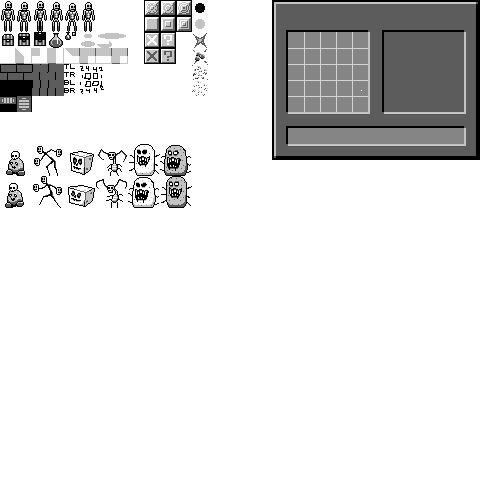
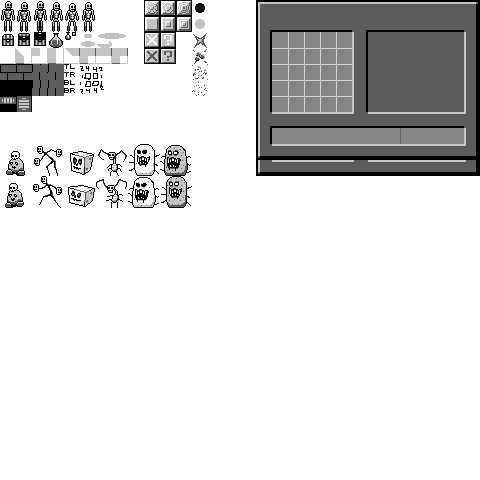
item panel rendering half done

Changed region(s): [[0.5312, 0.0, 1.0, 0.375], [0.7188, 0.0625, 0.8125, 0.25]]

diff --git a/src/items/itemrendering.py b/src/items/itemrendering.py
@@ -1,10 +1,13 @@
 from src.renderengine.img import ImageBundle 
+import src.items.item as items
 import src.game.spriteref as spriteref
 
 
+
 class TextImage:
-    def __init__(self, x, y, text, color=(1, 1, 1), scale=2):
+    def __init__(self, x, y, text, color=(1, 1, 1), scale=2, center_w=None):
         self.x = x
+        self.center_w = center_w
         self.y = y
         self.text = text.lower()
         self.color = color
@@ -14,24 +17,45 @@ class TextImage:
         
         self._build_images()
         
+    def _calc_width(self):
+        max_line_w = 0
+        cur_line_w = 0
+        char_w = (spriteref.alphabet["a"].width() + self.kerning) * self.scale
+        for c in self.text:
+            if c == "\n":
+                cur_line_w = 0
+            else:
+                cur_line_w += char_w
+                max_line_w = max(max_line_w, cur_line_w)
+        return max_line_w
+        
+    def line_height(self):
+        return (spriteref.alphabet["a"].height() + self.kerning) * self.scale
+        
     def _build_images(self):
-        if len(self._letter_images) < len(self.text):
-            ypos = 0
-            xpos = 0
-            a_sprite = spriteref.alphabet["a"]
-            for i in range(0, len(self.text)):
-                c = self.text[i]
-                if c == " ":
-                    xpos += (self.kerning + a_sprite.width()) * self.scale
-                elif c == "\n":
-                    xpos = 0
-                    ypos += (self.kerning + a_sprite.height()) * self.scale
-                else:
-                    sprite = spriteref.alphabet[c]
-                    img = ImageBundle(sprite, self.x + xpos, self.y + ypos, 
-                            scale=self.scale, color=self.color)
-                    self._letter_images.append(img)  
-                    xpos += (self.kerning + a_sprite.width()) * self.scale
+        ypos = 0
+        
+        x_shift = 0
+        if self.center_w is not None:
+            true_width = self._calc_width()
+            x_shift = self.x + self.center_w // 2 - true_width // 2     
+            
+        xpos = x_shift
+            
+        a_sprite = spriteref.alphabet["a"]
+        for i in range(0, len(self.text)):
+            c = self.text[i]
+            if c == " ":
+                xpos += (self.kerning + a_sprite.width()) * self.scale
+            elif c == "\n":
+                xpos = x_shift
+                ypos += (self.kerning + a_sprite.height()) * self.scale
+            else:
+                sprite = spriteref.alphabet[c]
+                img = ImageBundle(sprite, self.x + xpos, self.y + ypos, 
+                        scale=self.scale, color=self.color)
+                self._letter_images.append(img)  
+                xpos += (self.kerning + a_sprite.width()) * self.scale
                     
     def all_bundles(self):
         for b in self._letter_images:
@@ -46,12 +70,64 @@ class ItemImage:
         self._cube_images = []
 
 class ItemInfoPane:
-    def __item__(self, item):
-        self.item_image = ItemImage(item, 2)
+    def __init__(self, item):
+        self.item = item
         self.x = 0
         self.y = 0
-        self.title_text
-        self.lines_of_text
+        
+        self.top_panel = None
+        self.mid_panels = []
+        self.bot_panel = None
+        self.item_image = None
+        self.title_text = None
+        self.core_texts = []
+        
+        self._build_images()
+        
+        
+    def _build_images(self):
+        sc = 1
+        self.top_panel = ImageBundle(spriteref.item_panel_top, 0, 0, scale=sc)
+        h = self.top_panel.height()
+        for i in range(0, len(self.item.non_core_stats())):
+            img = ImageBundle(spriteref.item_panel_middle, 0, h, scale=sc)
+            h += img.height()
+            self.mid_panels.append(img)
+        
+        if len(self.mid_panels) > 0:
+            bot_sprite = spriteref.item_panel_bottom_0
+        else:
+            bot_sprite = spriteref.item_panel_bottom_1
+        self.bot_panel = ImageBundle(bot_sprite, 0, h, scale=sc)
+        
+        self.title_text = TextImage(16*sc, 12*sc, self.item.name, scale=2*sc)
+        
+        h = 38*sc
+        lvl_txt = TextImage((1 + 112)*sc, h, self.item.level_string(), scale=2*sc)
+        self.core_texts.append(lvl_txt)
+        h += lvl_txt.line_height()
+
+        for stat in self.item.core_stats():
+            stat_txt = TextImage(112*sc, h, str(stat), color=stat.color(), scale=2*sc)
+            self.core_texts.append(stat_txt)
+            h += stat_txt.line_height()     
+                   
+                    
+    def all_bundles(self):
+        yield self.top_panel
+        for bun in self.mid_panels:
+            yield bun
+        yield self.bot_panel
+        for bun in self.title_text.all_bundles():
+            yield bun
+            
+        for text in self.core_texts:
+            for bun in text.all_bundles():
+                yield bun
+        
+        
+        
+        
     
     
 

diff --git a/src/items/item.py b/src/items/item.py
@@ -1,5 +1,6 @@
 from enum import Enum
 import random
+import collections
 
 
 class StatType(Enum):
@@ -19,11 +20,13 @@ class StatType(Enum):
     LIFE_LEECH = "LIFE_LEECH",
     MAX_HEALTH = "MAX_HEALTH",
     POTION_HEALING = "POTION_HEALING",
-    POTION_COOLDOWN = "POTION_COOLDOWN"
+    POTION_COOLDOWN = "POTION_COOLDOWN",
 
     HOLE_BONUS = "HOLE_BONUS"
+    
+CORE_STATS = [StatType.ATT, StatType.DEF, StatType.VIT]  
  
-DESCRIPTIONS = {
+STAT_DESCRIPTIONS = {
     StatType.ATT:"+{} ATT",
     StatType.DEF:"+{} DEF",
     StatType.VIT:"+{} VIT",
@@ -43,6 +46,13 @@ DESCRIPTIONS = {
     StatType.POTION_COOLDOWN:"-X% Potion Cooldowns"
 }    
 
+STAT_COLORS = collections.defaultdict(lambda: (1, 1, 1))
+STAT_COLORS.update({
+        StatType.ATT: (1, 0.65, 0.65),
+        StatType.DEF: (0.65, 0.65, 1),
+        StatType.VIT: (0.65, 1, 0.65),
+})
+
 
 class ItemStat:
     """Stat that is attached to an item"""
@@ -51,10 +61,13 @@ class ItemStat:
         self.value = value
 
     def __repr__(self):
-        if self.stat_type in DESCRIPTIONS:
-            return DESCRIPTIONS[self.stat_type].format(self.value)
+        if self.stat_type in STAT_DESCRIPTIONS:
+            return STAT_DESCRIPTIONS[self.stat_type].format(self.value)
         else:
             return "{}: {}".format(self.stat_type, self.value)
+            
+    def color(self):
+        return STAT_COLORS[self.stat_type]
 
 
 class Item:
@@ -73,6 +86,9 @@ class Item:
         self.cubes = cubes
         self.color = color
         self.cube_art = {} if cube_art is None else cube_art
+    
+    def level_string(self):
+        return "lvl:{}".format(self.level)
         
     def w(self):
         return max([c[0] for c in self.cubes]) + 1
@@ -80,9 +96,15 @@ class Item:
     def h(self):
         return max([c[1] for c in self.cubes]) + 1
         
+    def core_stats(self):
+        return [s for s in self.stats if s.stat_type in CORE_STATS]
+        
+    def non_core_stats(self):
+        return [s for s in self.stats if s.stat_type not in CORE_STATS]
+        
     def __str__(self):
         res = "[{}]".format(self.name)
-        res += "\n  " + "lvl: " + str(self.level)
+        res += "\n  " + self.level_string()
         for stat in self.stats:
             res += "\n  " + str(stat)
         res += "\n"
@@ -143,8 +165,8 @@ class ItemFactory:
         return tuple(res)
         
     def gen_item():
-        name = "Cubey Cubeboy"
-        stats = [ItemStat(StatType.ATT, 14), ItemStat(StatType.POTION_HEALING, 32),
+        name = "Cube of Hate"
+        stats = [ItemStat(StatType.ATT, 14), ItemStat(StatType.DEF, 32), ItemStat(StatType.VIT, 3), ItemStat(StatType.POTION_HEALING, 32),
                 ItemStat(StatType.MAX_HEALTH, 23)]
         cubes = ItemFactory.gen_cubes(6)
         color = [1, random.random(), random.random()]

diff --git a/cubelike.py b/cubelike.py
@@ -8,6 +8,8 @@ from src.world.worldstate import World
 from src.world.entities import Player, Enemy, ChestEntity
 import src.renderengine.img as img
 from src.renderengine.engine import RenderEngine
+
+from src.items.item import ItemFactory
 from src.items.itemrendering import TextImage, ItemImage, ItemInfoPane
 
 print("launching Cubelike...")
@@ -95,12 +97,14 @@ def run():
     height = img_surface.get_height()
     render_eng.set_texture(texture_data, width, height)
         
-    world = build_me_a_world(15, 15, render_eng, gs)
+    world = build_me_a_world(1, 1, render_eng, gs)
     
-    text_img = TextImage(15, 15, "also i still wanna see \nthe incredibles\nso hmu", color=(0.5, 0.8, 1))
-    for bun in text_img.all_bundles():
-        render_eng.update(bun, layer_id=gs.UI_0_LAYER)
-    
+    item = ItemFactory.gen_item()
+    print(item)
+    item_panel = ItemInfoPane(item)
+    for b in item_panel.all_bundles():
+        render_eng.update(b, layer_id=gs.UI_0_LAYER)
+        
     clock = pygame.time.Clock()    
     
     running = True

diff --git a/src/game/spriteref.py b/src/game/spriteref.py
@@ -46,12 +46,13 @@ medium_shadow = make(80, 40, 16, 8)
 large_shadow = make(96, 32, 32, 8)
 chest_shadow = make(96, 40, 32, 8)
 
-item_panel_top = make(272, 0, 208, 128)
-item_panel_middle = make(272, 128, 208, 16)
-item_panel_botton = make(272, 144, 208, 16)
+item_panel_top = make(256, 0, 224, 128)
+item_panel_middle = make(256, 128, 224, 16)
+item_panel_bottom_0 = make(256, 144, 224, 16)
+item_panel_bottom_1 = make(256, 160, 224, 16) # if no bonus attributes
 
 _chars = [letter for letter in string.ascii_lowercase]
-_chars.extend(["+", "-", "\"", ".", ",", "!", "?", "_", "~", "%", "="])
+_chars.extend(["+", "-", "\"", ".", ",", "!", "?", "_", "~", "%", "=", ":"])
 _qmark = make(160, 115, 5, 5)
 alphabet = collections.defaultdict(lambda: _qmark)
 for i in range(0, len(_chars)):

diff --git a/src/renderengine/img.py b/src/renderengine/img.py
@@ -56,6 +56,12 @@ class ImageBundle:
     def y(self):
         return self._y
         
+    def width(self):
+        return self.model().width() * self.scale()
+        
+    def height(self):
+        return self.model().height() * self.scale()
+        
     def scale(self):
         return self._scale
         
